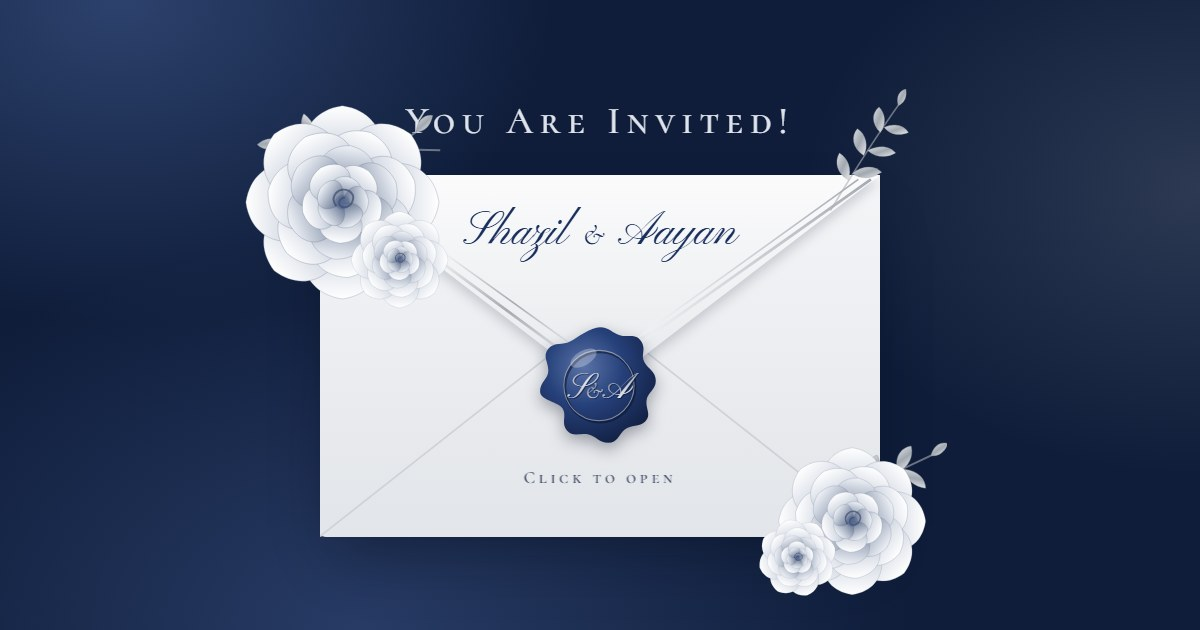
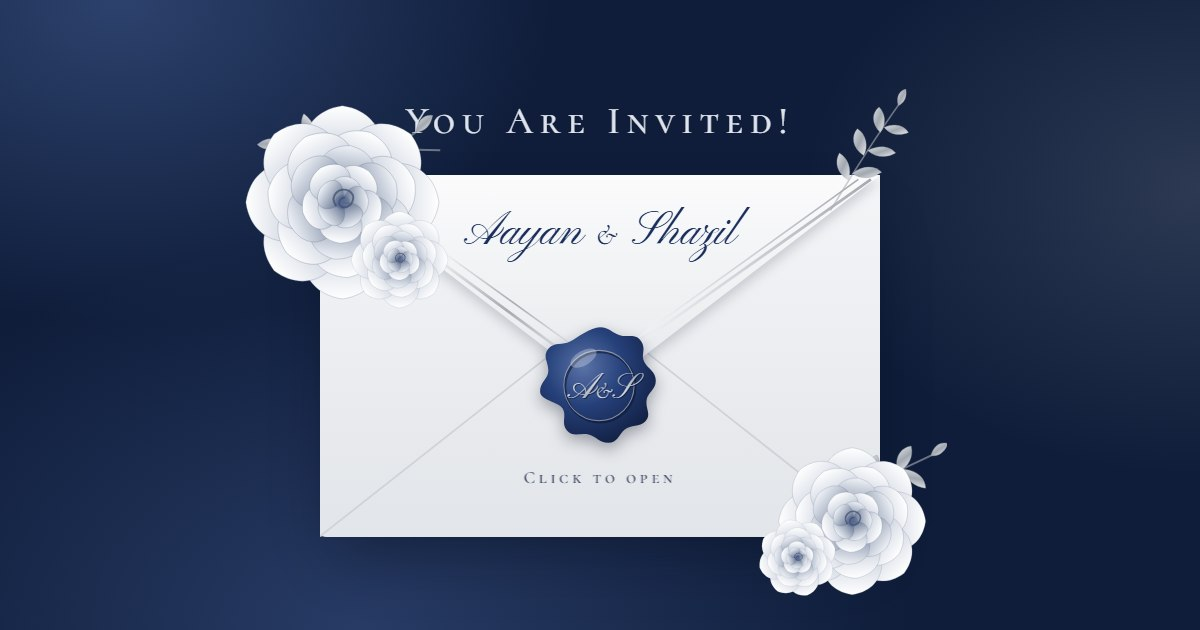
Envelope reads Aayan & Shazil with A&S seal, matching the card; refresh preview image

Changed region(s): [[0.37, 0.3317, 0.6167, 0.4222], [0.4625, 0.573, 0.5242, 0.6333]]

diff --git a/index.html b/index.html
@@ -13,7 +13,7 @@
 <meta property="og:image" content="https://yaya-amax.github.io/aayan-shazil-reception/og.jpg">
 <meta property="og:image:width" content="1200">
 <meta property="og:image:height" content="630">
-<meta property="og:image:alt" content="A silver envelope sealed with a navy wax seal, addressed to Shazil &amp; Aayan">
+<meta property="og:image:alt" content="A silver envelope sealed with a navy wax seal, addressed to Aayan &amp; Shazil">
 <meta name="twitter:card" content="summary_large_image">
 <meta name="twitter:image" content="https://yaya-amax.github.io/aayan-shazil-reception/og.jpg">
 <link rel="canonical" href="https://yaya-amax.github.io/aayan-shazil-reception/">
@@ -347,14 +347,14 @@ section{margin:0 0 clamp(48px,9vw,88px)}
         <path d="M6 1.2L77.5 52.6 149 1.2" fill="none" stroke="url(#gSilver)" stroke-width=".45"/>
       </svg>
     </div>
-    <div class="env-names">Shazil <span class="amp">&amp;</span> Aayan</div>
+    <div class="env-names">Aayan <span class="amp">&amp;</span> Shazil</div>
     <button class="seal" id="seal" aria-label="Open the invitation">
       <svg viewBox="0 0 120 120" aria-hidden="true">
         <path fill="url(#gSeal)" d="M60 4c9 0 12 6 20 8s15-2 20 6-1 13 3 20 11 9 11 18-8 11-9 19 5 14-1 20-14 3-20 8-7 13-16 13-11-6-19-8-15 3-21-4 0-14-4-21S2 75 2 66s8-12 8-20-6-14 0-21 14-3 21-7S51 4 60 4z"/>
         <circle cx="60" cy="62" r="34" fill="none" stroke="#0b1530" stroke-opacity=".6" stroke-width="2.5"/>
         <circle cx="60" cy="62" r="34" fill="none" stroke="#c7cbd1" stroke-opacity=".6" stroke-width="1" transform="translate(-1 -1.5)"/>
-        <text x="60" y="74" text-anchor="middle" font-family="Pinyon Script, cursive" font-size="34" fill="#0b1530" fill-opacity=".7">S<tspan font-family="Cormorant Garamond, serif" font-style="italic" font-size="22">&amp;</tspan>A</text>
-        <text x="59" y="72.6" text-anchor="middle" font-family="Pinyon Script, cursive" font-size="34" fill="url(#gSilver)" fill-opacity=".95">S<tspan font-family="Cormorant Garamond, serif" font-style="italic" font-size="22">&amp;</tspan>A</text>
+        <text x="60" y="74" text-anchor="middle" font-family="Pinyon Script, cursive" font-size="34" fill="#0b1530" fill-opacity=".7">A<tspan font-family="Cormorant Garamond, serif" font-style="italic" font-size="22">&amp;</tspan>S</text>
+        <text x="59" y="72.6" text-anchor="middle" font-family="Pinyon Script, cursive" font-size="34" fill="url(#gSilver)" fill-opacity=".95">A<tspan font-family="Cormorant Garamond, serif" font-style="italic" font-size="22">&amp;</tspan>S</text>
         <ellipse cx="44" cy="34" rx="14" ry="7" fill="#fff" fill-opacity=".28" transform="rotate(-30 44 34)"/>
       </svg>
     </button>
